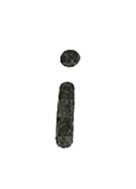
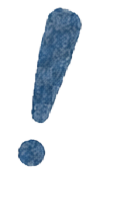
New letter naming: word+letter format, correct 3-line layout, A=2.5x others=1.3x

Changed region(s): [[0.2419, 0.0265, 0.6774, 0.7937], [0.1452, 0.6878, 0.3871, 0.8466]]

diff --git a/index.html b/index.html
@@ -99,14 +99,14 @@ body {
 }
 
 .letter-item img {
-  height: 80px;
+  height: 104px;
   width: auto;
   display: block;
   pointer-events: none;
 }
 
 .letter-item.capital img {
-  height: 120px;
+  height: 200px;
 }
 
 .letter-item.dragging {
@@ -207,33 +207,26 @@ body {
 // lay them out in the CORRECT sentence order.
 // After careful analysis, the correct mapping is:
 
-// Files 1.png to 39.png are now in correct sentence order.
-// Sentence: "Hi! My name is Pan Xiaoya. This is my website."
-// 39 files = 37 non-space chars + possibly 2 extra decorative chars
-// Let's map: positions 1-37 are the sentence chars, 38-39 might be extra
+// File naming: "单词编号+字母序号" (e.g. 1A = word 1, letter A)
+// Files with "A" in name = capital/first letter of word → 2.5x size
+// All others → 1.3x size (handled via CSS class)
 //
-// Char positions (1-indexed):
-// H(1) i(2) !(3)  M(4) y(5)  n(6) a(7) m(8) e(9)  i(10) s(11)
-// P(12) a(13) n(14)  X(15) i(16) a(17) o(18) y(19) a(20) .(21)
-// T(22) h(23) i(24) s(25)  i(26) s(27)  m(28) y(29)  w(30) e(31) b(32) s(33) i(34) t(35) e(36) .(37)
-// Extra: 38, 39 (unknown, won't use)
-//
-// Line 1: "Hi!" "My" "name" "is" → positions 1-3, 4-5, 6-9, 10-11
-// Line 2: "Pan" "Xiaoya." → positions 12-14, 15-21
-// Line 3: "This" "is" "my" "website." → positions 22-25, 26-27, 28-29, 30-37
+// Line 1: 1A, 1B, 2, 3A, 3B, 4A, 4B, 4C, 4D, 5A, 5B
+// Line 2: 6A, 6B, 6C, 7A, 7B, 7C, 7D, 7E, 7F
+// Line 3: 8A, 8B, 8C, 8D, 8E, 8F, 8G, 9A, 9B, 10A, 10B, 11A, 11B, 11C, 11D, 11E, 11F, 11G, 12
 
-// Capital positions: H(1), M(4), P(12), X(15), T(22)
-const capitalPositions = [1, 4, 12, 15, 22];
-
-const lineStructure = [
-  [[1,2,3], [4,5], [6,7,8,9], [10,11]],
-  [[12,13,14], [15,16,17,18,19,20,21]],
-  [[22,23,24,25], [26,27], [28,29], [30,31,32,33,34,35,36,37]],
+const lines = [
+  // Line 1: words 1-5 → "Hi! My name is"
+  [['1A','1B'], ['2'], ['3A','3B'], ['4A','4B','4C','4D'], ['5A','5B']],
+  // Line 2: words 6-7 → "Pan Xiaoya."
+  [['6A','6B','6C'], ['7A','7B','7C','7D','7E','7F']],
+  // Line 3: words 8-12 → "This is my website."
+  [['8A','8B','8C','8D'], ['9A','9B'], ['10A','10B'], ['11A','11B','11C','11D','11E','11F','11G'], ['12']],
 ];
 
 const area = document.getElementById('lettersArea');
 
-lineStructure.forEach(line => {
+lines.forEach(line => {
   const lineDiv = document.createElement('div');
   lineDiv.className = 'text-line';
 
@@ -247,13 +240,13 @@ lineStructure.forEach(line => {
     const wordGroup = document.createElement('span');
     wordGroup.className = 'word-group';
 
-    word.forEach(fileNum => {
-      const isCap = capitalPositions.includes(fileNum);
+    word.forEach(filename => {
+      const isCap = filename.endsWith('A');
       const el = document.createElement('div');
       el.className = 'letter-item' + (isCap ? ' capital' : '');
       const img = document.createElement('img');
-      img.src = `assets/home/${fileNum}.png`;
-      img.alt = `letter`;
+      img.src = `assets/home/${filename}.png`;
+      img.alt = filename;
       img.draggable = false;
       el.appendChild(img);
       wordGroup.appendChild(el);